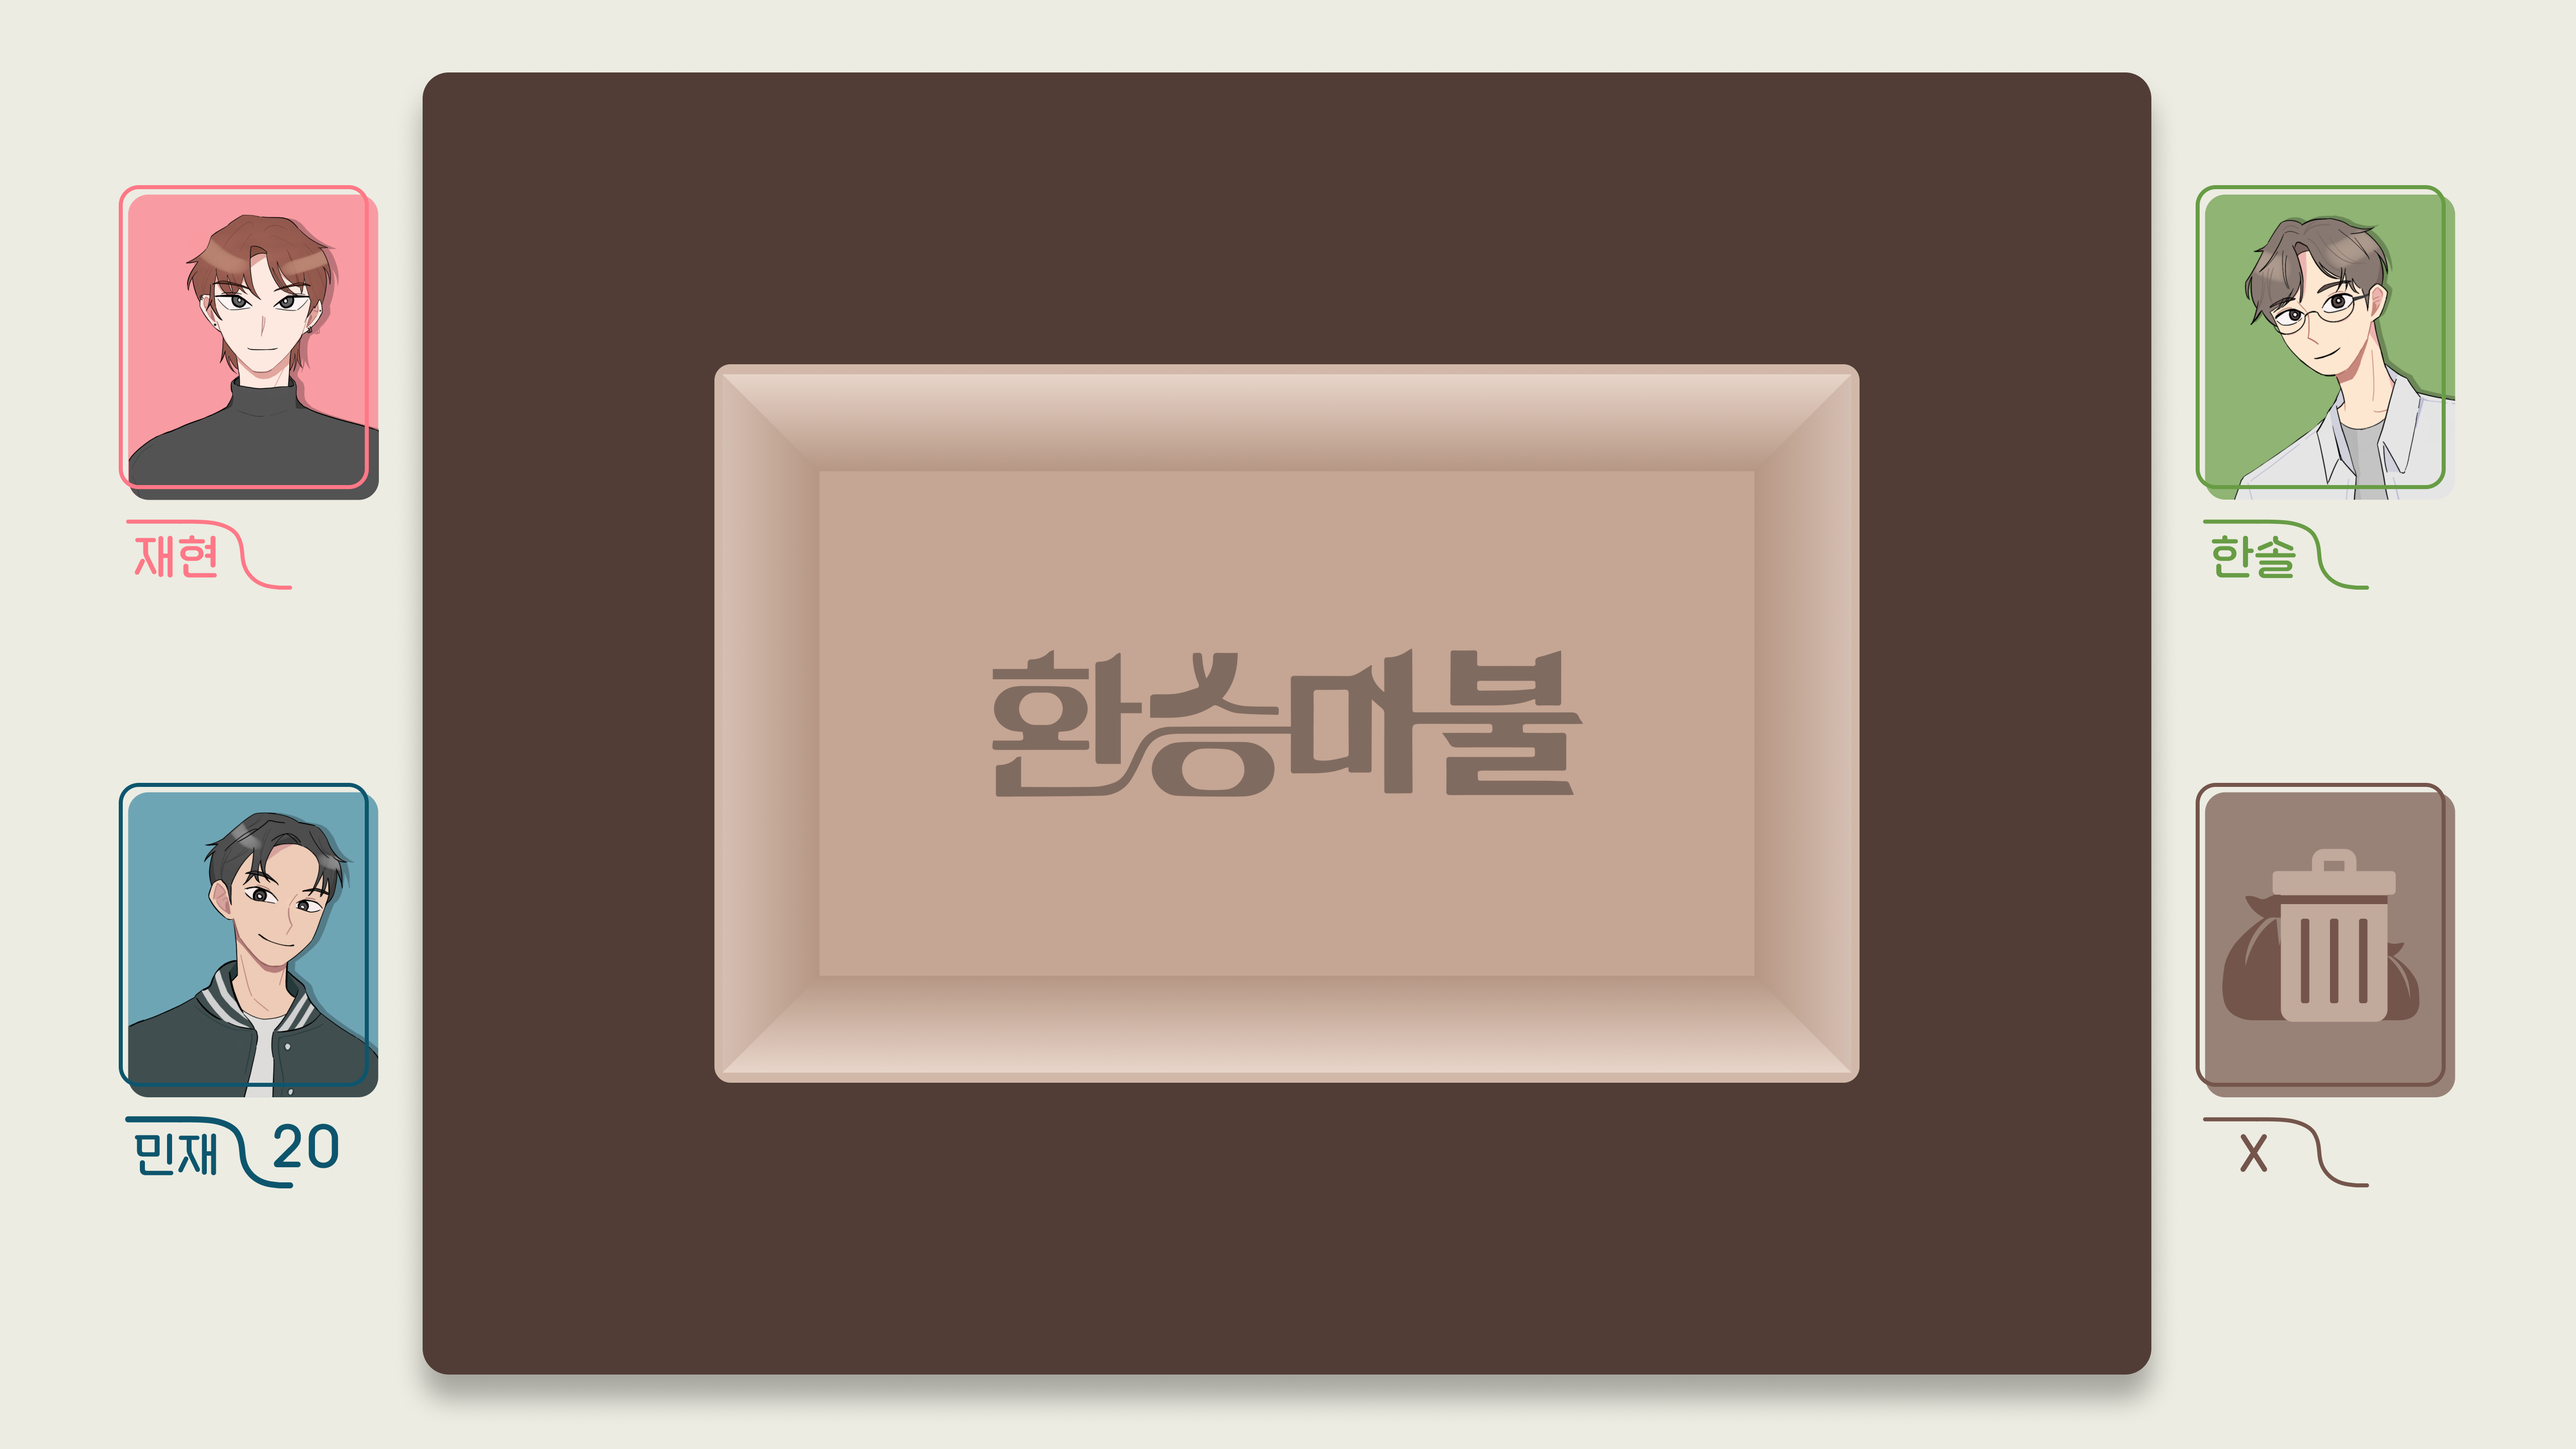
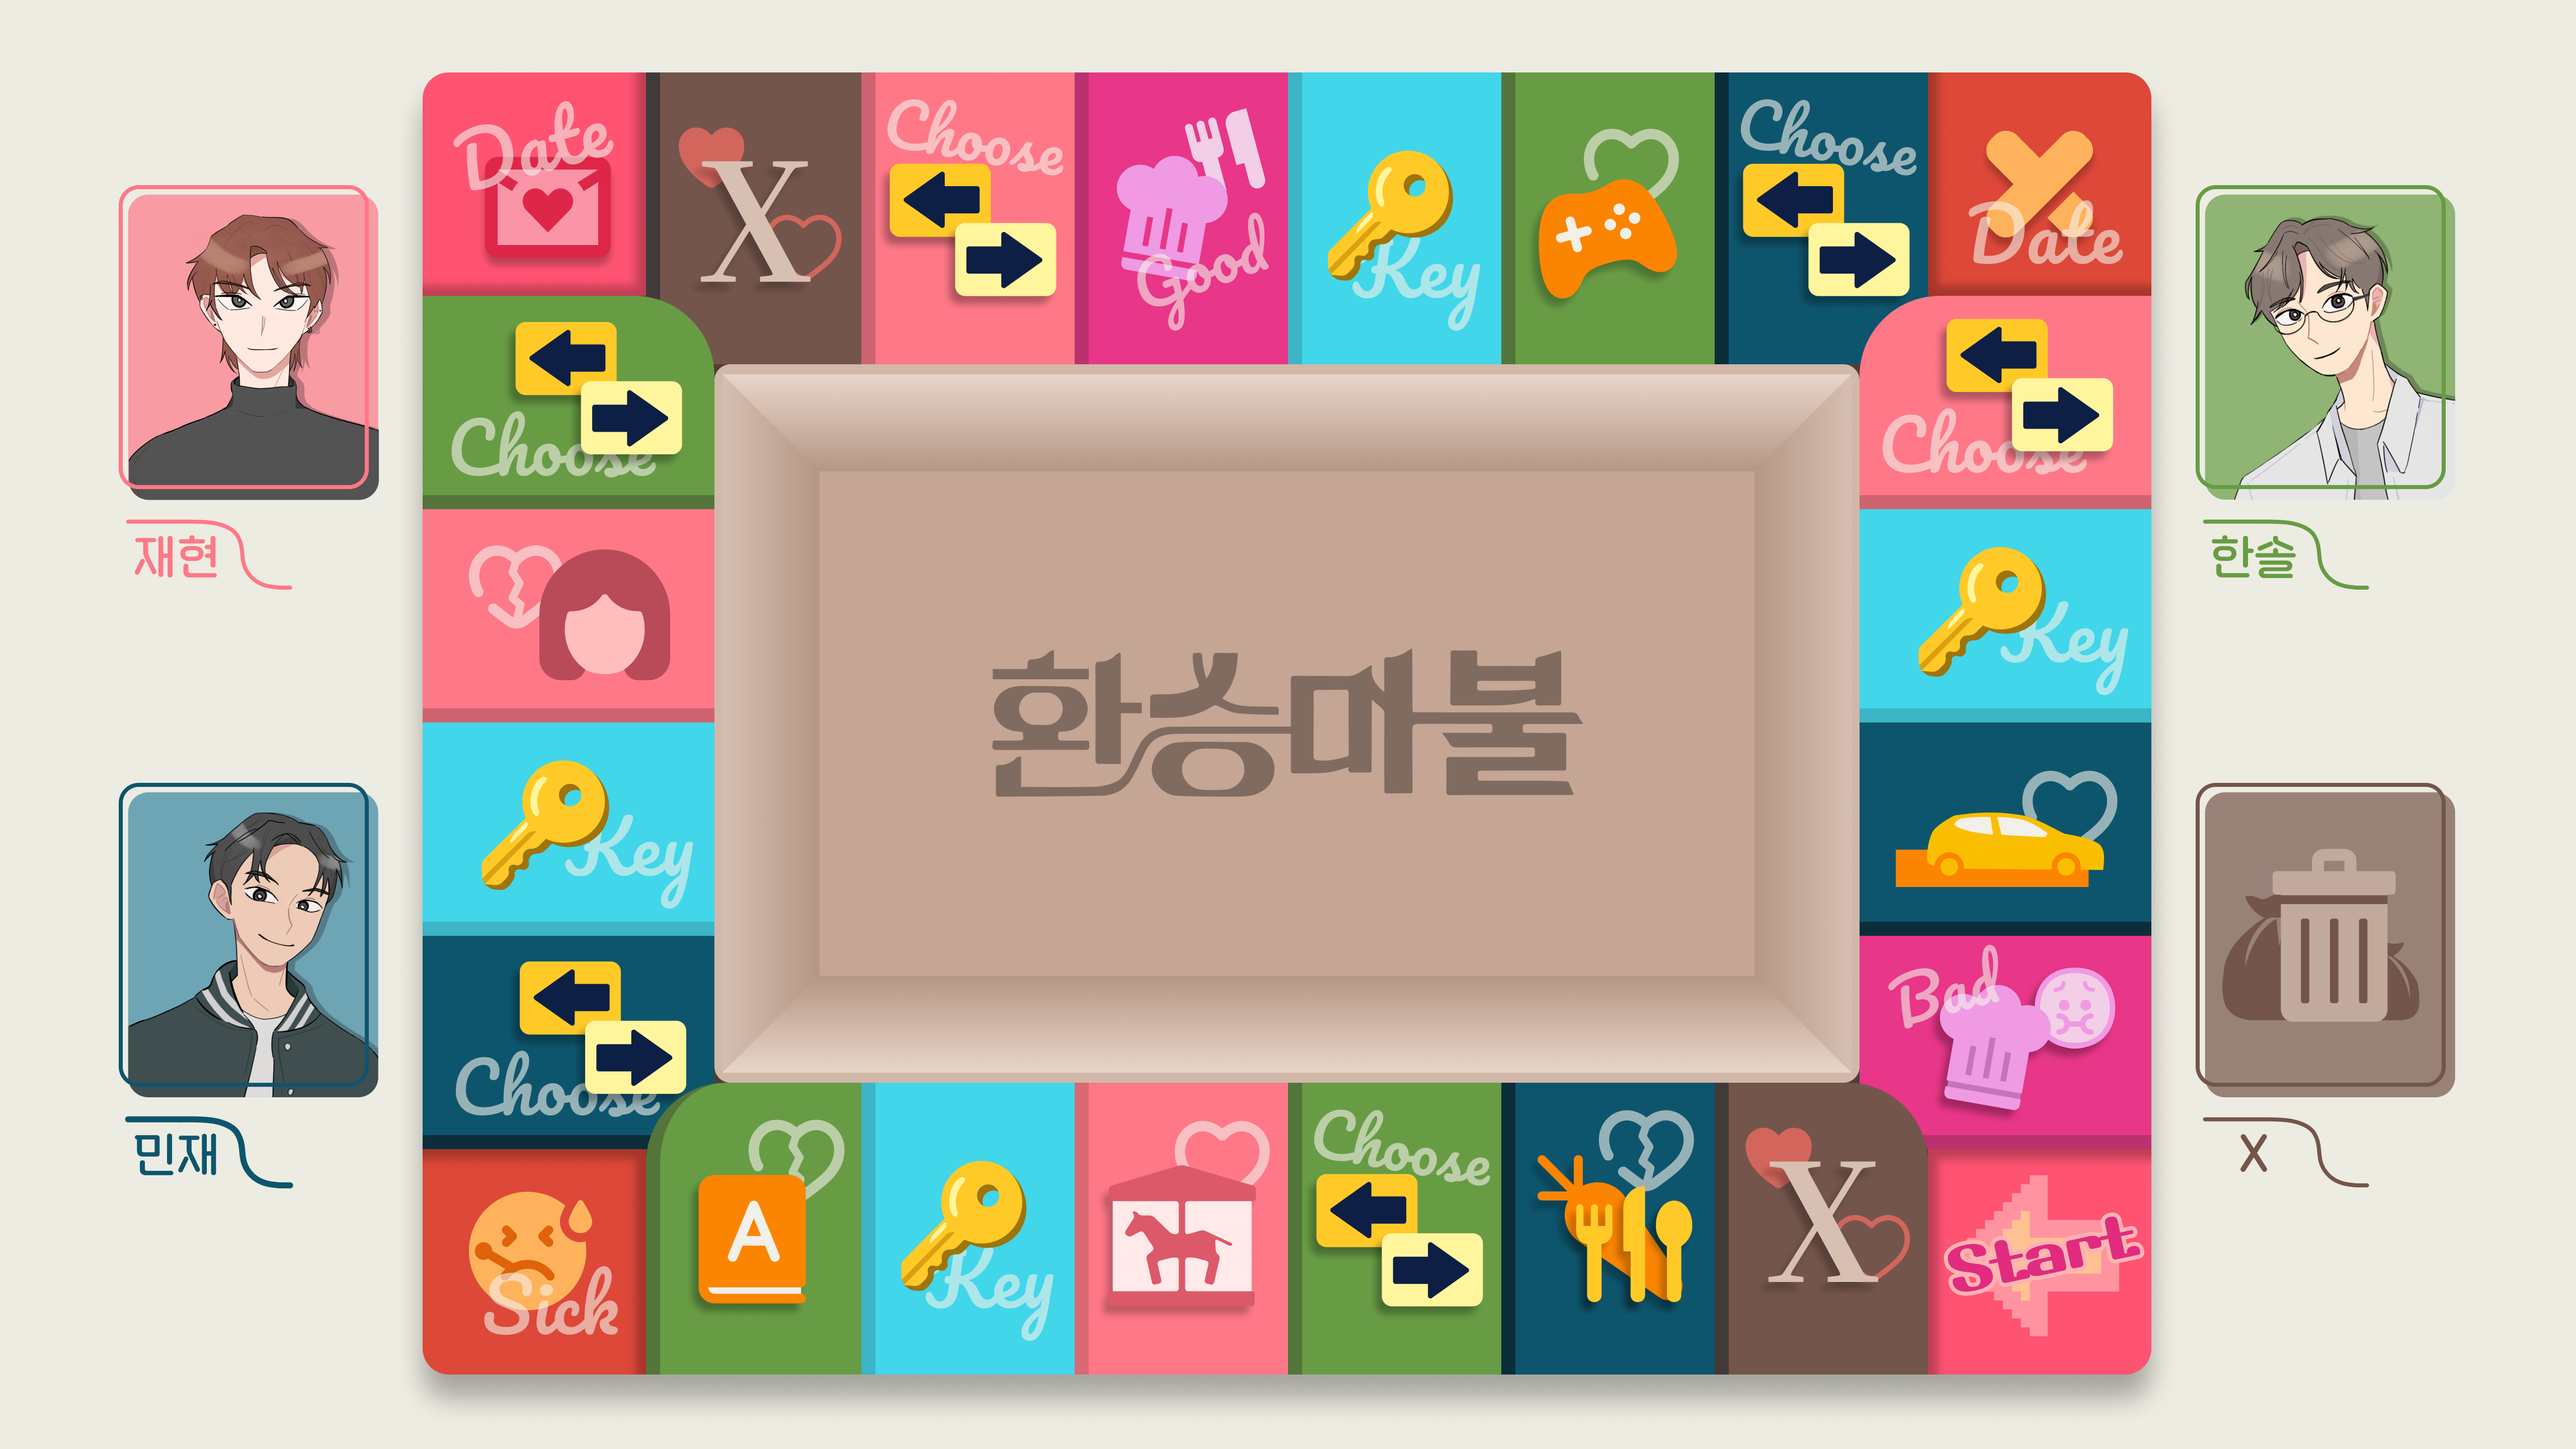
[feat]: 호감도, 화면 최대화설정, click 이미지 추가

diff --git a/home.cpp b/home.cpp
@@ -4,7 +4,11 @@
 using namespace std;
 using namespace sf;
 
-int Number = 0; // 주사위 누적값 변수입니다. 24가 넘어가면 24를 빼줘야 해용
+int Number = 7; // 주사위 누적값 변수입니다. 24가 넘어가면 24를 빼줘야 해용
+int Jheart = 0;
+int Hheart = 0;
+int Mheart = 0;
+int Xheart = 0;
 
 
 int main()
@@ -13,8 +17,10 @@ int main()
     Font font;
     auto a = font.loadFromFile("설레임.ttf");
 
+    const unsigned int originalWidth = 1280;
+    const unsigned int originalHeight = 720;
 
-    RenderWindow app(VideoMode(1280, 720), "game");
+    RenderWindow app(VideoMode(originalWidth, originalHeight), "game");
 
     Texture back[20];
     back[0].loadFromFile("game-back.png");
@@ -240,6 +246,38 @@ int main()
         Click[i].setScale(0.25f, 0.25f);
     }
 
+    // 재현 호감도
+    Text JheartS;
+    JheartS.setFont(font);
+    JheartS.setCharacterSize(112);
+    JheartS.setScale(0.25f, 0.25f);
+    JheartS.setFillColor(sf::Color(255,120, 135));
+    JheartS.setPosition(130, 253);
+    char buffer1[4]; // "%3d"는 최대 3자리까지 표시하므로 4자리 배열이 필요함
+    // 한솔 호감도
+    Text HheartS;
+    HheartS.setFont(font);
+    HheartS.setCharacterSize(112);
+    HheartS.setScale(0.25f, 0.25f);
+    HheartS.setFillColor(sf::Color(103, 156, 68));
+    HheartS.setPosition(1162, 253);
+    char buffer2[4]; // "%3d"는 최대 3자리까지 표시하므로 4자리 배열이 필요함
+    // 민재 호감도
+    Text MheartS;
+    MheartS.setFont(font);
+    MheartS.setCharacterSize(112);
+    MheartS.setScale(0.25f, 0.25f);
+    MheartS.setFillColor(sf::Color(13, 85, 109));
+    MheartS.setPosition(130, 550);
+    char buffer3[4]; // "%3d"는 최대 3자리까지 표시하므로 4자리 배열이 필요함
+    // X 호감도
+    Text XheartS;
+    XheartS.setFont(font);
+    XheartS.setCharacterSize(112);
+    XheartS.setScale(0.25f, 0.25f);
+    XheartS.setFillColor(sf::Color(65, 58, 57));
+    XheartS.setPosition(1162, 550);
+    char buffer4[4]; // "%3d"는 최대 3자리까지 표시하므로 4자리 배열이 필요함
 
     while (app.isOpen())
     {
@@ -249,6 +287,16 @@ int main()
         {
             if (event.type == Event::Closed)
                 app.close();
+            else if (event.type == sf::Event::Resized)
+            {
+                float aspectRatio = static_cast<float>(originalWidth) / originalHeight;
+                unsigned int newHeight = event.size.height;
+                unsigned int newWidth = static_cast<unsigned int>(newHeight * aspectRatio);
+                app.setSize(sf::Vector2u(newWidth, newHeight));
+                sf::Vector2u windowSize = app.getSize();
+                sf::Vector2i newPosition((static_cast<int>(sf::VideoMode::getDesktopMode().width) - static_cast<int>(windowSize.x)) / 2,0); // 화면의 상단 좌표를 사용하여 Y 좌표를 0으로 설정
+                app.setPosition(newPosition);
+            }
 
             Vector2f mousePos = app.mapPixelToCoords(Mouse::getPosition(app));
             for (int i = 0; i < 24; i++) {
@@ -313,15 +361,25 @@ int main()
                         }
                         else if (i == 7 && Screen1) {
                             popup1 = true;
+                            Hheart -= 10;
+                            Jheart -= 10;
+                            Mheart -= 10;
                         }
                         else if (i == 15 && Screen1) {
                             popup2 = true;
+                            Hheart += 15;
+                            Jheart += 15;
+                            Mheart += 15;
                         }
                         else if (i == 19 && Screen1) {
                             popup3 = true;
+                            Xheart += 20;
                         }
                         else if (i == 23 && Screen1) {
                             popup4 = true;
+                            Hheart -= 15;
+                            Jheart -= 15;
+                            Mheart -= 15;
                         }
                     }
                 }
@@ -401,6 +459,7 @@ int main()
                                 chSBText.setString(L"( 아.. 줏대가 없네 )");
                                 chSBText.setPosition(343, 213.99);
                             }
+                            Hheart -= 20;
                             chText = false;
                             Hch1_2 = false;
                             Hch2 = false;
@@ -415,6 +474,7 @@ int main()
                                 chSBText.setString(L"\t\t좋아요!\n(줏대있다!멋져)");
                                 chSBText.setPosition(370, 193);
                             }
+                            Hheart += 20;
                             chText = false;
                             Hch1_2 = false;
                             Hch2 = false;
@@ -431,6 +491,7 @@ int main()
                                 chSBText.setPosition(360, 187.99);
                                 Mch2B = true;
                             }
+                            Mheart -= 20;
                             chText = false;
                             Mch1_2 = false;
                             Mch2 = false;
@@ -446,6 +507,7 @@ int main()
                                 chSBText.setPosition(397, 187.99);
                                 Mch2G = true;
                             }
+                            Mheart += 20;
                             chText = false;
                             Mch1_2 = false;
                             Mch2 = false;
@@ -459,6 +521,7 @@ int main()
                                 chSBText.setString(L"( 왜 저렇게\n깔끔떨지 ? )");
                                 chSBText.setPosition(395, 191);
                             }
+                            Jheart -= 20;
                             chText = false;
                             Jch1 = false;
                             Jch2 = false;
@@ -474,6 +537,7 @@ int main()
                                 chSBText.setString(L"( 털털한 성격\n\t  좋다!)");
                                 chSBText.setPosition(386, 198);
                             }
+                            Jheart += 20;
                             chText = false;
                             Jch1 = false;
                             Jch2 = false;
@@ -503,6 +567,16 @@ int main()
                     }
                 }
             }
+
+            std::snprintf(buffer1, sizeof(buffer1), "%3d", Jheart);
+            JheartS.setString(buffer1);
+            std::snprintf(buffer2, sizeof(buffer2), "%3d", Hheart);
+            HheartS.setString(buffer2);
+            std::snprintf(buffer3, sizeof(buffer3), "%3d", Mheart);
+            MheartS.setString(buffer3);
+            std::snprintf(buffer4, sizeof(buffer4), "%3d", Xheart);
+            XheartS.setString(buffer4);
+
         if (Screen1) {
             app.draw(background[0]);
             for (int i = 23; i >= 0; i--) {
@@ -512,6 +586,110 @@ int main()
             app.draw(button[20]);
             for (int i = 0; i < 3; i++) Ch13HMJ[i] = false;
             Ch13B = false;
+            app.draw(JheartS);
+            app.draw(HheartS);
+            app.draw(MheartS);
+            app.draw(XheartS);
+        }
+
+        // 주사위 Click 이미지
+        switch (Number) {
+            // click2~7
+        case 2:
+            Click[0].setPosition(826, 457);
+            app.draw(Click[0]);
+            break;
+        case 3:
+            Click[0].setPosition(720, 457);
+            app.draw(Click[0]);
+            break;
+        case 4:
+            Click[0].setPosition(614, 457);
+            app.draw(Click[0]);
+            break;
+        case 5:
+            Click[0].setPosition(508, 457);
+            app.draw(Click[0]);
+            break;
+        case 6:
+            Click[0].setPosition(402, 457);
+            app.draw(Click[0]);
+            break;
+        case 7:
+            Click[0].setPosition(296, 457);
+            app.draw(Click[0]);
+            break;
+            // click8~13
+        case 8:
+            Click[1].setPosition(289, 574);
+            app.draw(Click[1]);
+            break;
+        case 9:
+            Click[1].setPosition(333, 474);
+            app.draw(Click[1]);
+            break;
+        case 10:
+            Click[1].setPosition(333, 368);
+            app.draw(Click[1]);
+            break;
+        case 11:
+            Click[1].setPosition(333, 262);
+            app.draw(Click[1]);
+            break;
+        case 12:
+            Click[1].setPosition(333, 156);
+            app.draw(Click[1]);
+            break;
+        case 13:
+            Click[1].setPosition(189, 50);
+            app.draw(Click[1]);
+            break;
+            // click14~19
+        case 14:
+            Click[2].setPosition(296, 160);
+            app.draw(Click[2]);
+            break;
+        case 15:
+            Click[2].setPosition(402, 160);
+            app.draw(Click[2]);
+            break;
+        case 16:
+            Click[2].setPosition(508, 160);
+            app.draw(Click[2]);
+            break;
+        case 17:
+            Click[2].setPosition(614, 160);
+            app.draw(Click[2]);
+            break;
+        case 18:
+            Click[2].setPosition(720, 160);
+            app.draw(Click[2]);
+            break;
+        case 19:
+            Click[2].setPosition(826, 160);
+            app.draw(Click[2]);
+            break;
+            // click20~24
+        case 20:
+            Click[3].setPosition(987, 50);
+            app.draw(Click[3]);
+            break;
+        case 21:
+            Click[3].setPosition(945, 156);
+            app.draw(Click[3]);
+            break;
+        case 22:
+            Click[3].setPosition(945, 262);
+            app.draw(Click[3]);
+            break;
+        case 23:
+            Click[3].setPosition(945, 368);
+            app.draw(Click[3]);
+            break;
+        case 24:
+            Click[3].setPosition(945, 474);
+            app.draw(Click[3]);
+            break;
         }
 
         //Hch
@@ -573,6 +751,7 @@ int main()
         }
         else if (JchG) {
             app.draw(background[15]);
+            
         }
 
         // Ch13
